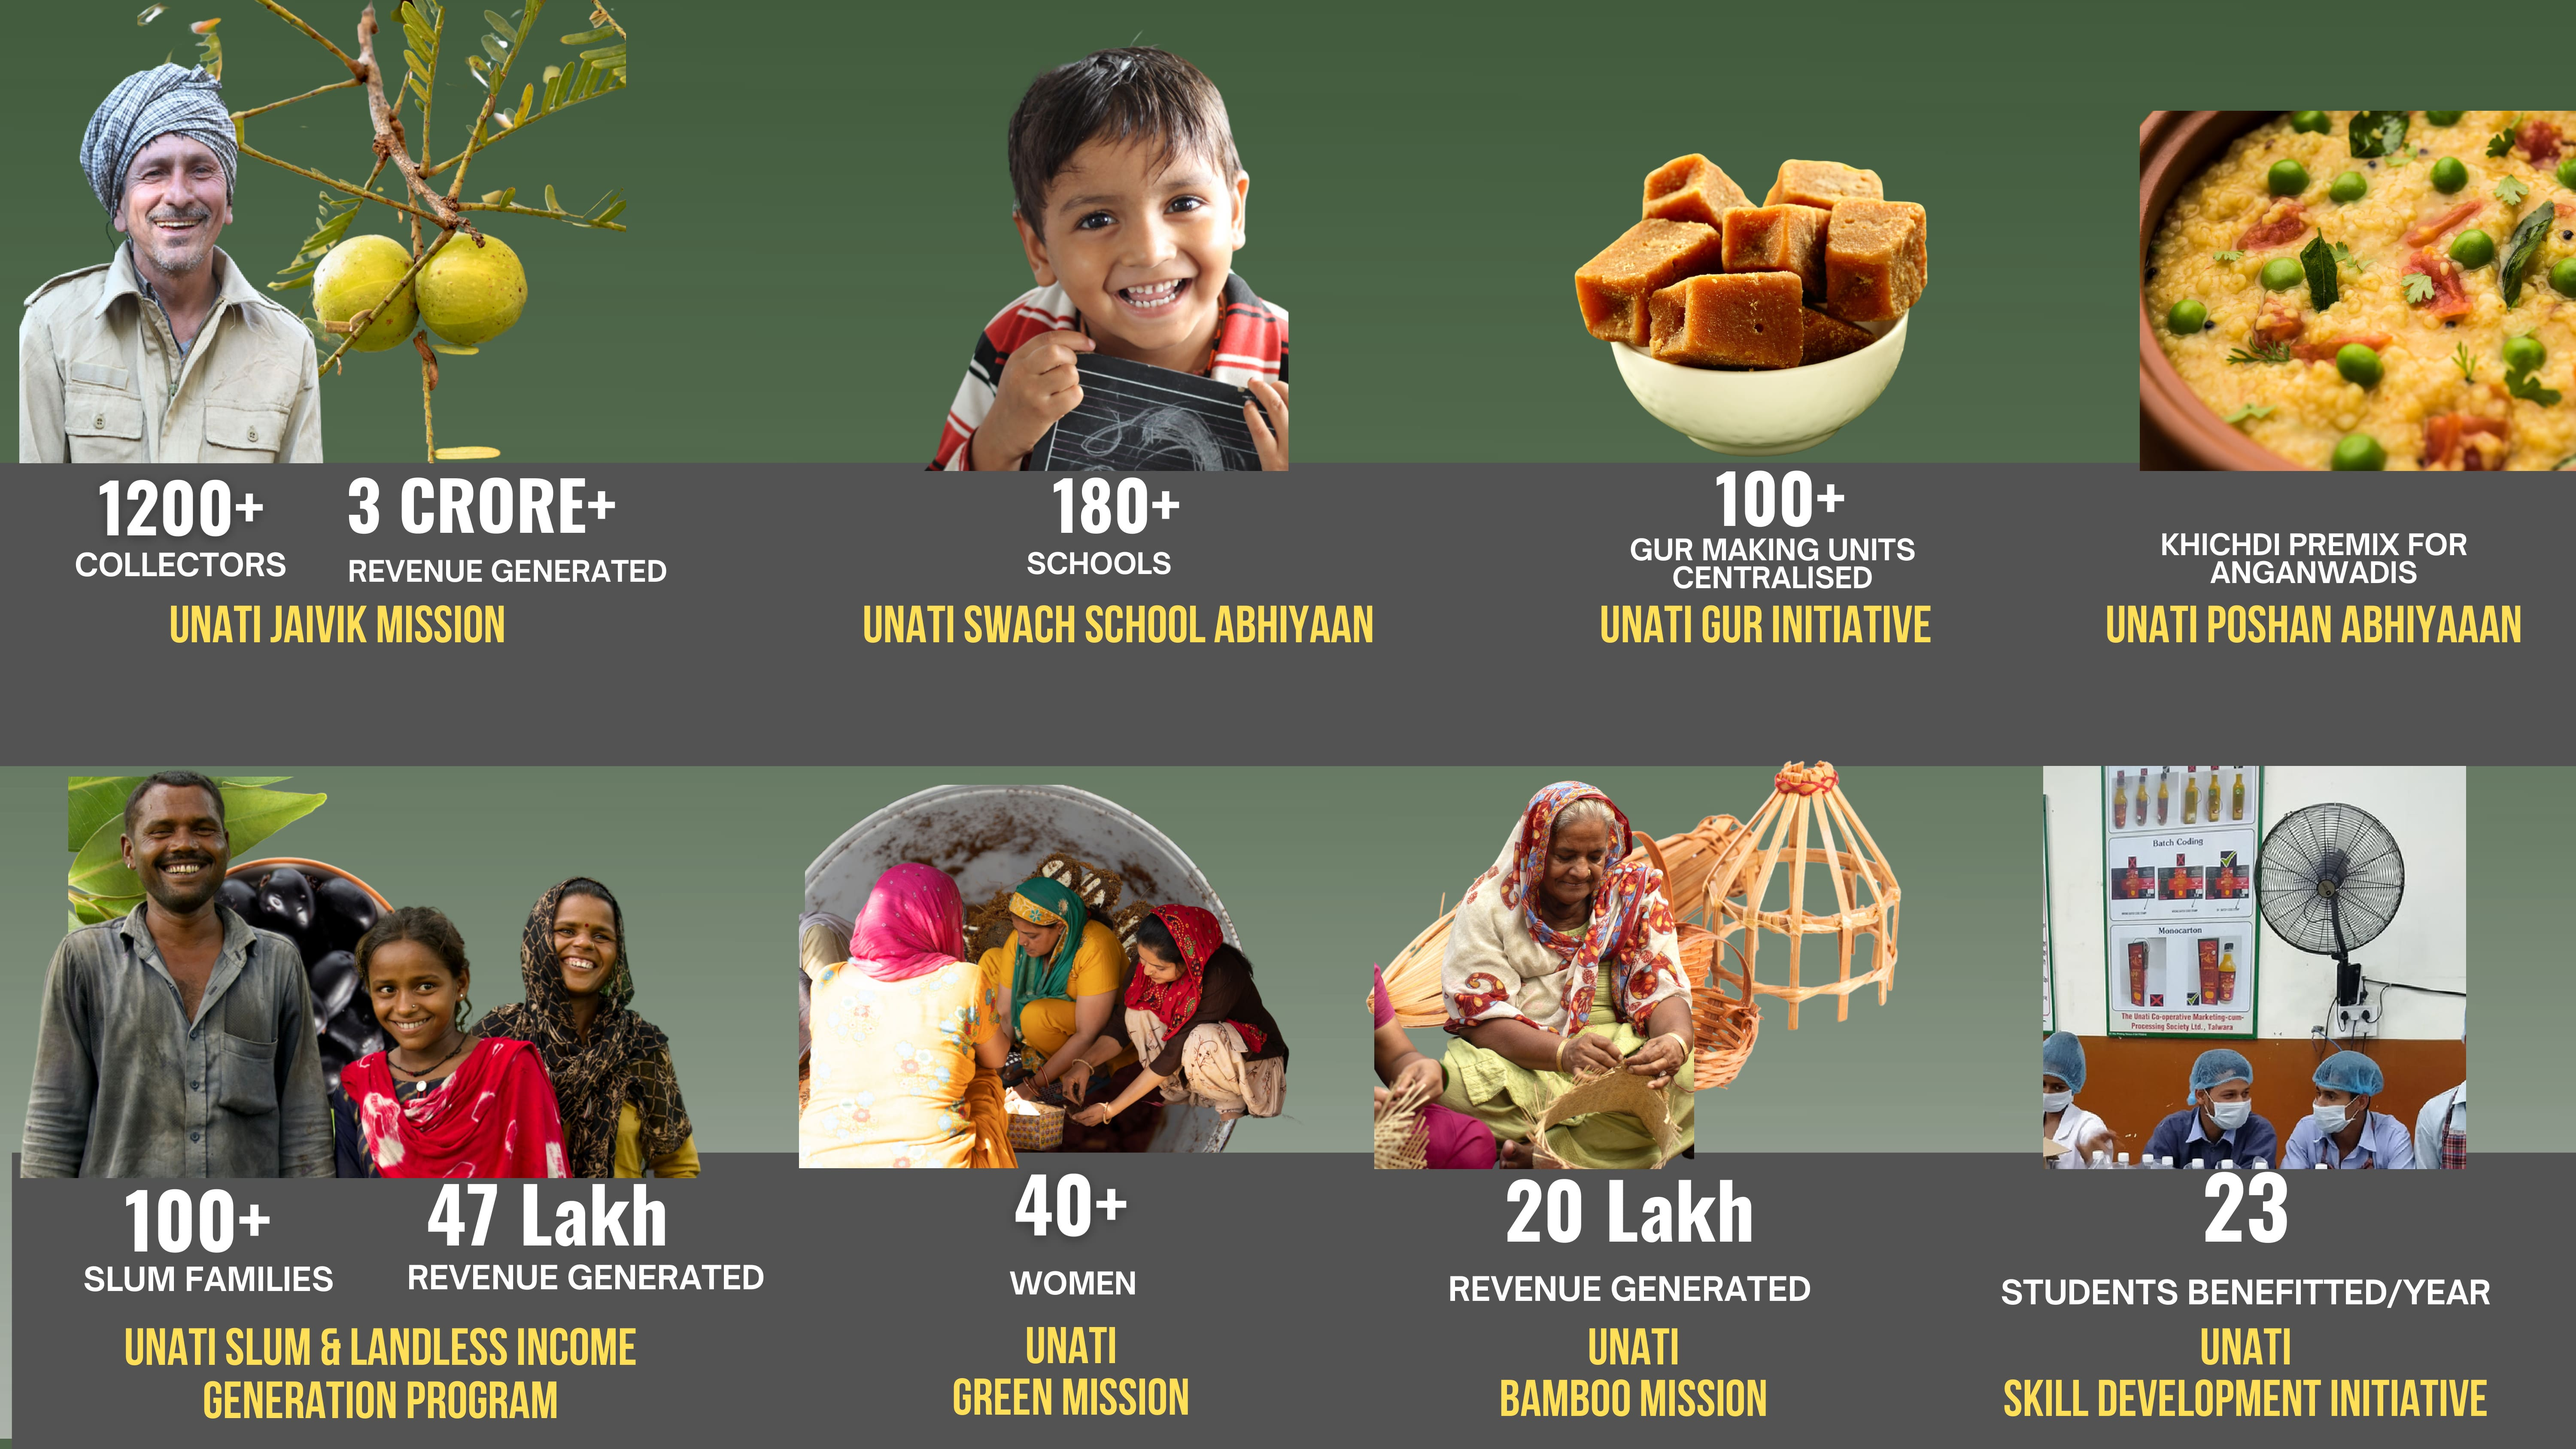
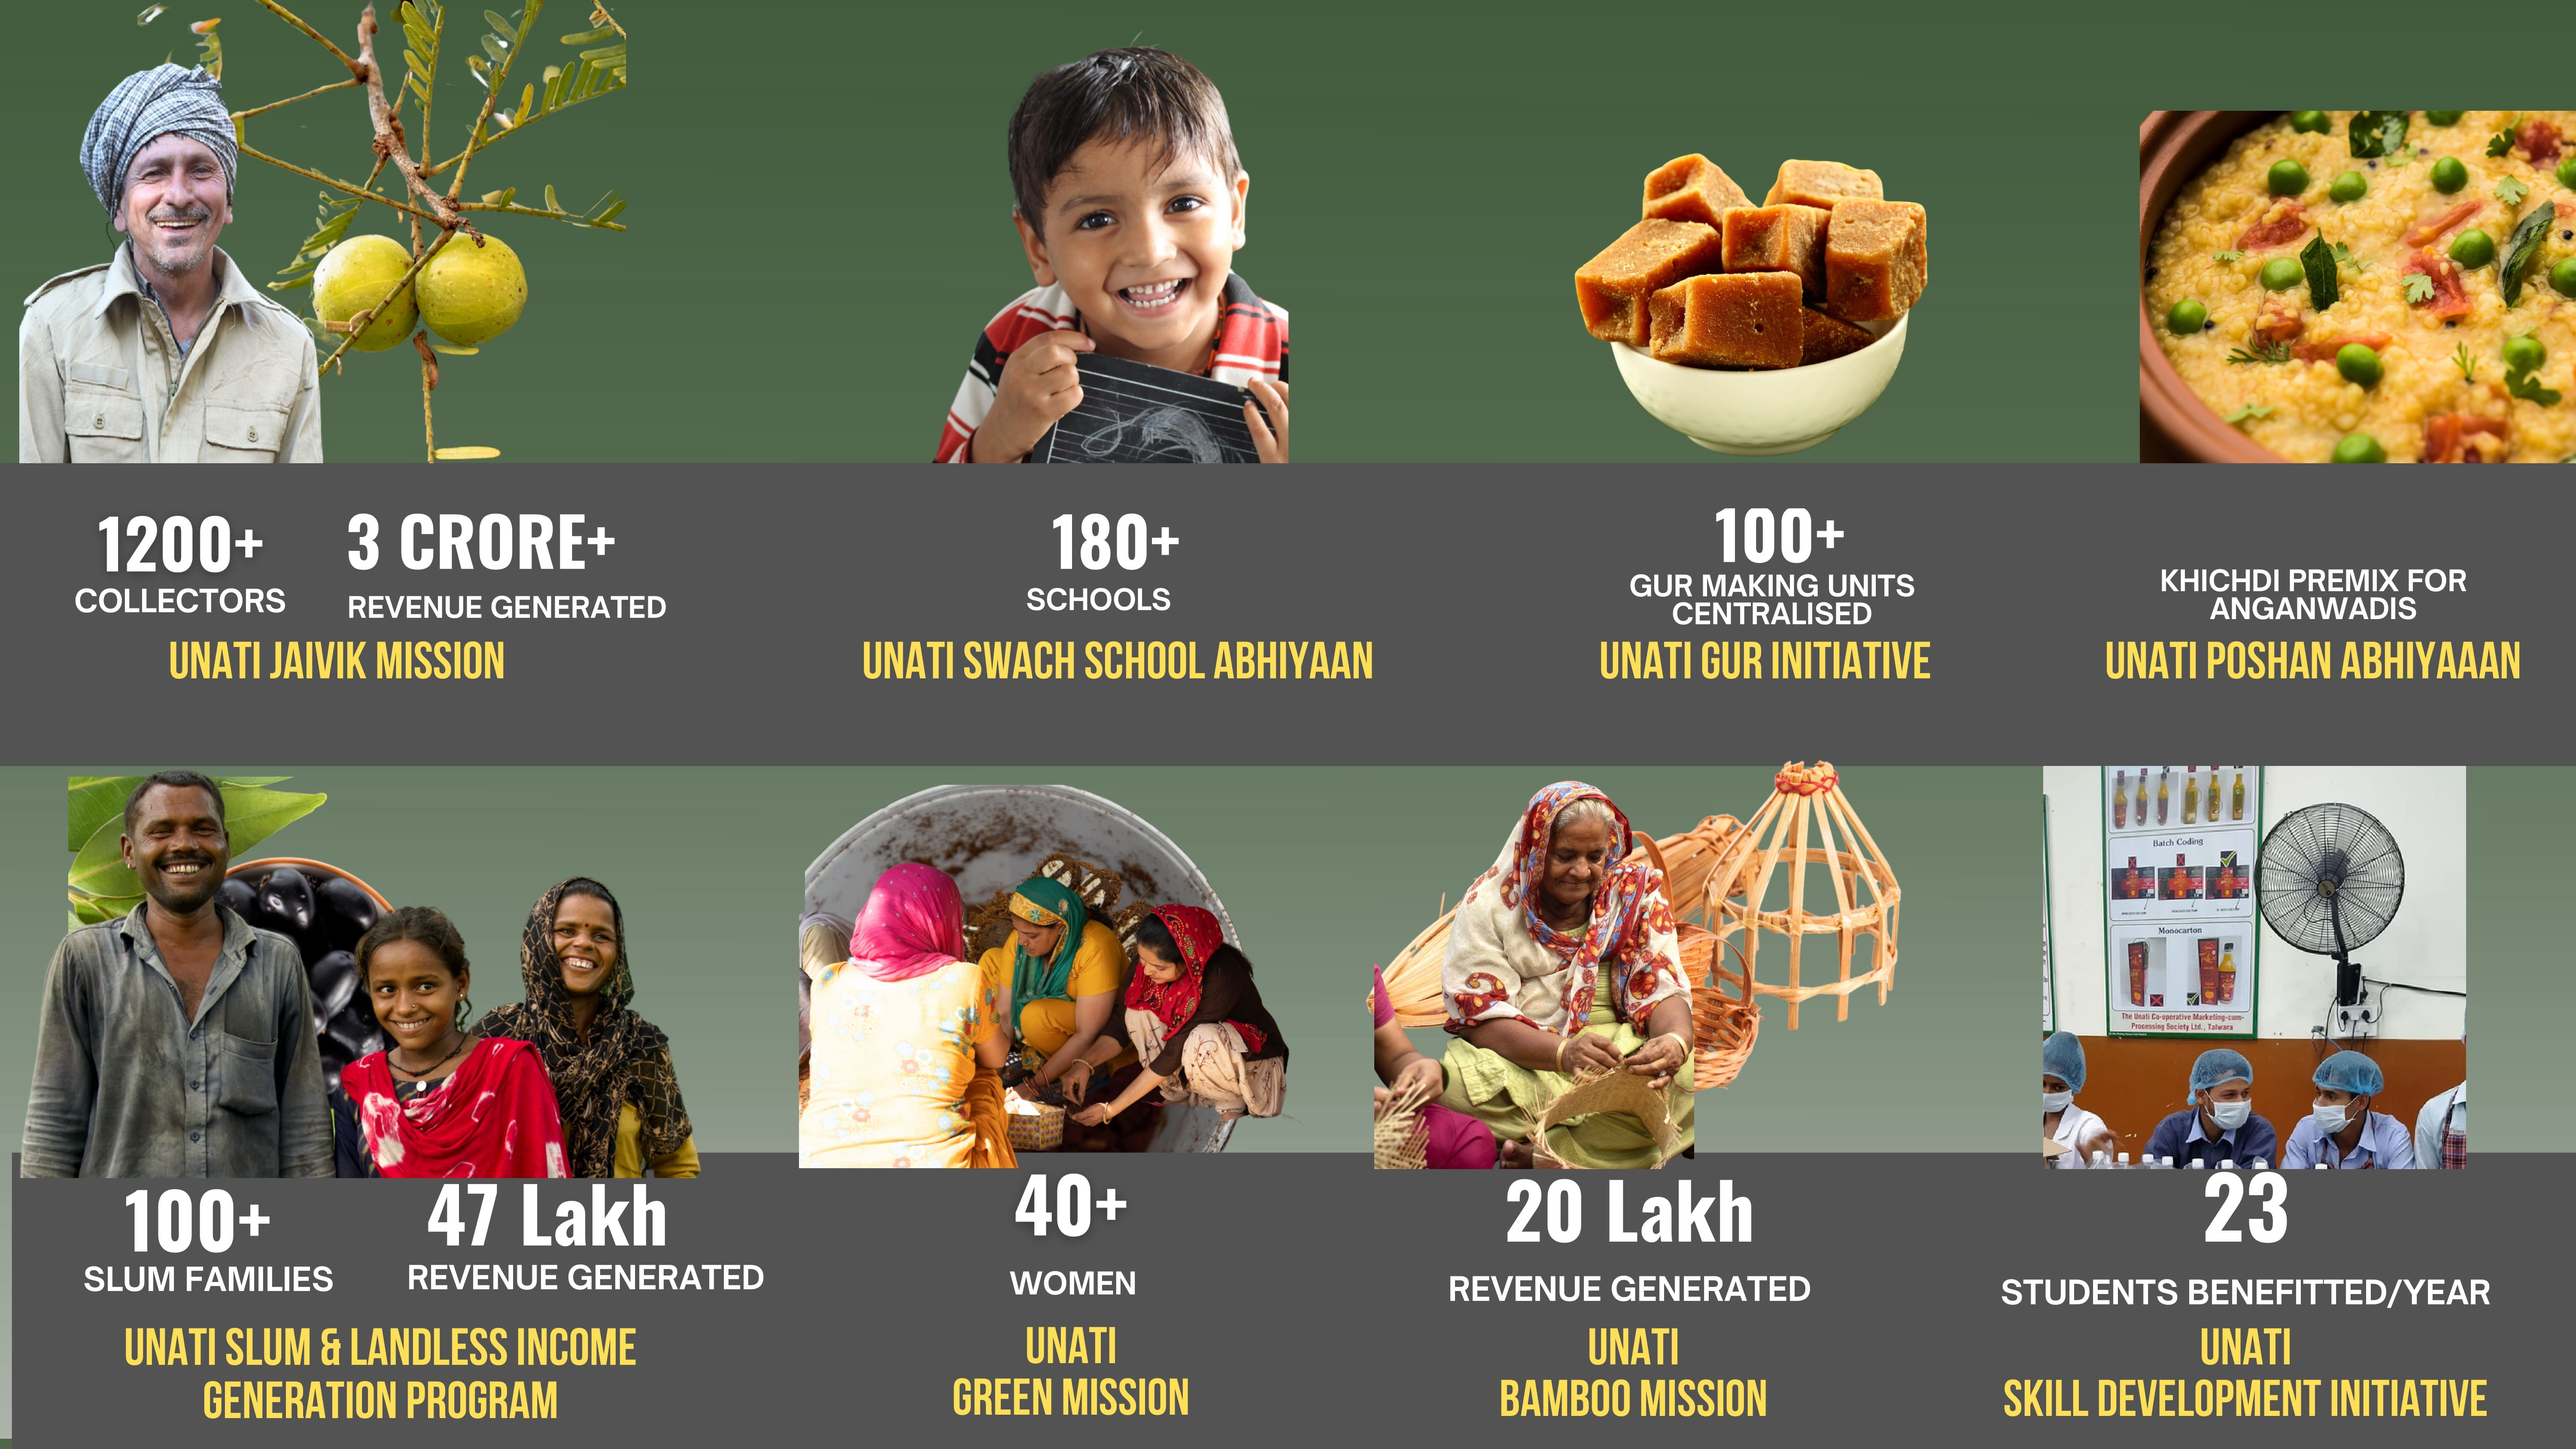
Improvements.

diff --git a/about.html b/about.html
@@ -185,7 +185,7 @@
     </section><!-- /Team Section -->
 
     <section style="padding:0px;">
-      <img src="./assets/Unati_Imgs/unati final - 230224-10.jpg" alt="" srcset="" style="width:100%">
+      <img src="./assets/Unati_Imgs/unati final - 230224-10.jpg" alt="" srcset="" style="width:100%; object-fit:cover;">
     </section>
   </main>
 
